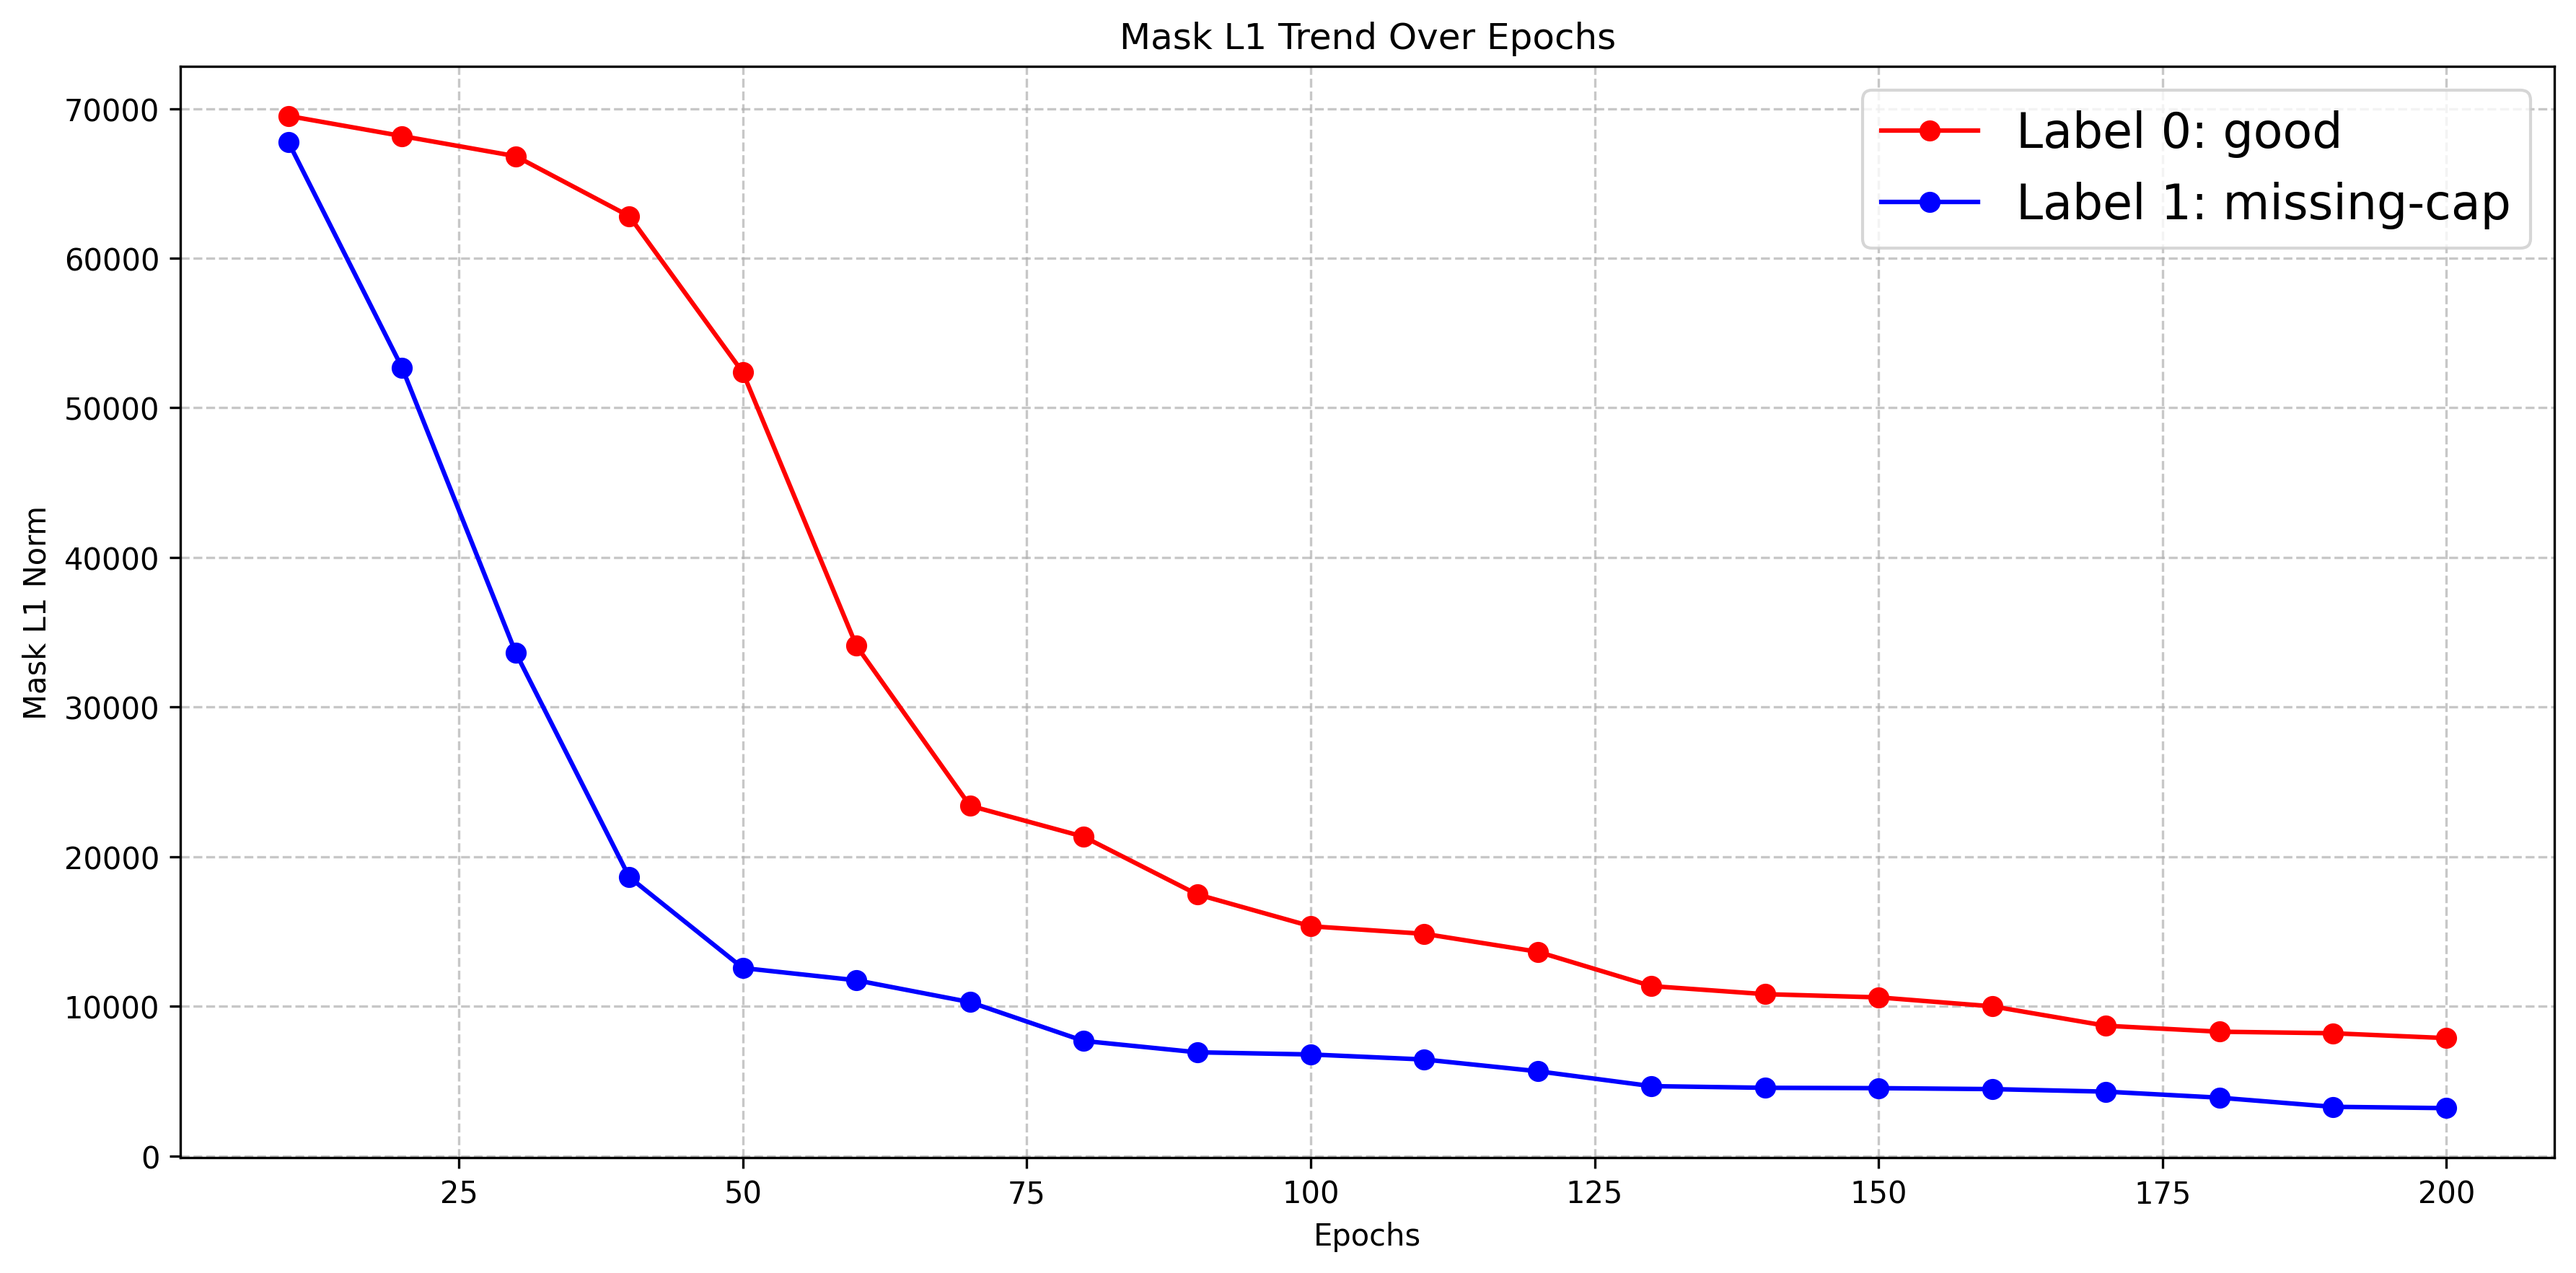
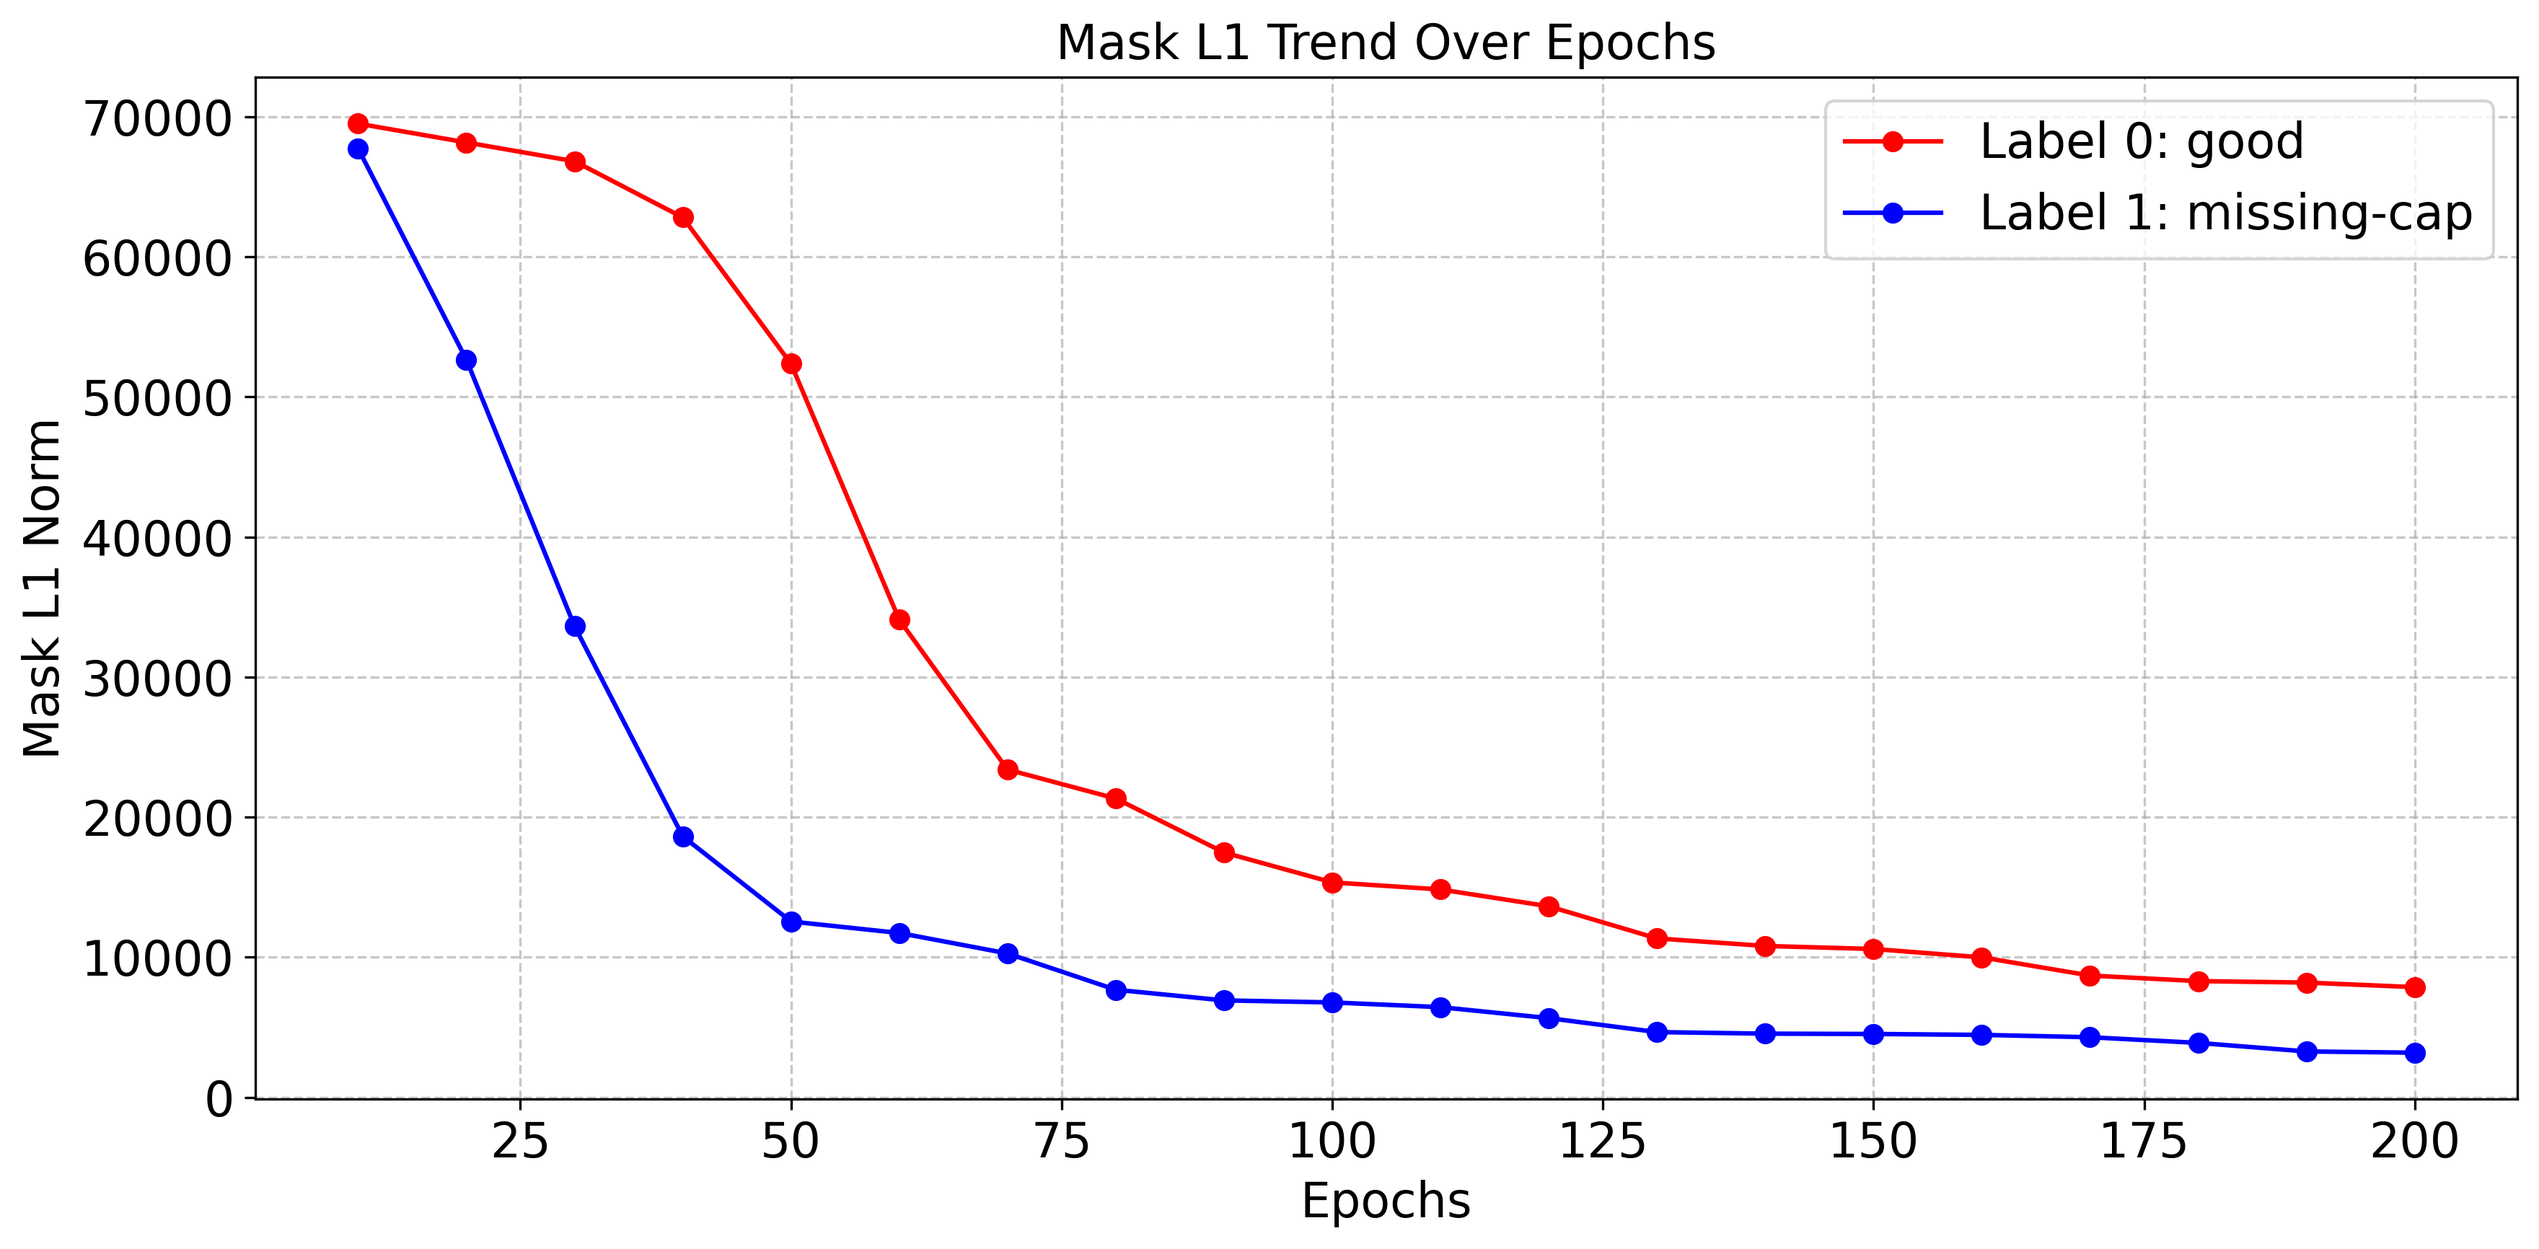
新增绘图脚本以可视化通信开销，更新多个图像文件以反映最新结果

diff --git a/Effcientnet/rev_eng_plots.py b/Effcientnet/rev_eng_plots.py
@@ -1,0 +1,150 @@
+import os
+import torch
+import torch.nn as nn
+from torch.utils.data import DataLoader
+from torchvision import datasets, transforms
+from torchvision.models import efficientnet_v2_s
+import matplotlib.pyplot as plt
+
+# 统一字体大小常量
+FONT_SIZE = 18
+# plt.rcParams.update({
+#     'font.size': FONT_SIZE,
+#     'axes.titlesize': FONT_SIZE,
+#     'axes.labelsize': FONT_SIZE,
+#     'xtick.labelsize': FONT_SIZE,
+#     'ytick.labelsize': FONT_SIZE,
+#     'legend.fontsize': FONT_SIZE,
+#     'figure.titlesize': FONT_SIZE,
+# })
+
+def load_data(data_dir: str, batch_size: int = 16) -> tuple[datasets.ImageFolder, DataLoader]:
+    transform = transforms.Compose([
+        transforms.Resize(256),
+        transforms.CenterCrop(224),
+        transforms.ToTensor(),
+        transforms.Normalize(mean=[0.485, 0.456, 0.406], std=[0.229, 0.224, 0.225]),
+    ])
+    dataset = datasets.ImageFolder(os.path.join(data_dir, 'val'), transform)
+    loader = DataLoader(dataset, batch_size=batch_size, shuffle=False, num_workers=4)
+    return dataset, loader
+
+
+def load_model(weights_path: str, num_classes: int, device: torch.device) -> torch.nn.Module:
+    model = efficientnet_v2_s(weights=None)
+    model.classifier = nn.Sequential(
+        nn.Dropout(p=0.2, inplace=True),
+        nn.Linear(in_features=1280, out_features=num_classes),
+    )
+    state = torch.load(weights_path, map_location=device)
+    model.load_state_dict(state)
+    model.to(device)
+    model.eval()
+    return model
+
+
+@torch.no_grad()
+def visualize_and_save(mask: torch.Tensor, delta: torch.Tensor, label: int,
+                       model: torch.nn.Module, clean_loader: DataLoader,
+                       class_names: list[str], results_dir: str, device: torch.device) -> None:
+    mean = torch.tensor([0.485, 0.456, 0.406]).view(3, 1, 1)
+    std = torch.tensor([0.229, 0.224, 0.225]).view(3, 1, 1)
+
+    # 反归一化触发器
+    trig = (delta * std + mean).clamp(0, 1)
+    rec = (mask * delta * std + mean).clamp(0, 1)
+
+    # 选取一个非目标类别样本
+    example_images = None
+    for imgs, labels in clean_loader:
+        non_target_indices = (labels != label).nonzero(as_tuple=True)[0]
+        if len(non_target_indices) > 0:
+            idx = non_target_indices[0]
+            example_images = imgs[idx:idx + 1].to(device)
+            break
+    if example_images is None:
+        print(f"[warn] 未在验证集中找到非目标标签 {label} 的样本，跳过 trigger_analysis 绘制。")
+        return
+
+    clean_img = example_images[0].cpu()
+    clean_img_viz = (clean_img * std + mean).clamp(0, 1).permute(1, 2, 0).numpy()
+
+    triggered_img = (1 - mask.to(device)) * example_images[0] + mask.to(device) * delta.to(device)
+    triggered_img_viz = (triggered_img.cpu() * std + mean).clamp(0, 1).permute(1, 2, 0).numpy()
+
+    clean_pred = model(example_images).argmax(1).item()
+    triggered_pred = model(triggered_img.unsqueeze(0)).argmax(1).item()
+
+    fig, axes = plt.subplots(1, 4, figsize=(16, 4))
+
+    mask_mean = mask.mean(dim=0)
+    im0 = axes[0].imshow(mask_mean, cmap='hot')
+    axes[0].set_title(f'Mask (L1={mask.sum().item():.1f})', fontsize=FONT_SIZE)
+    cbar = fig.colorbar(im0, ax=axes[0])
+    cbar.ax.tick_params(labelsize=FONT_SIZE)
+
+    axes[1].imshow(trig.permute(1, 2, 0))
+    axes[1].set_title('Trigger (Delta)', fontsize=FONT_SIZE)
+
+    axes[2].imshow(rec.permute(1, 2, 0))
+    axes[2].set_title('Reconstructed Trigger', fontsize=FONT_SIZE)
+
+    axes[3].imshow(triggered_img_viz)
+    axes[3].set_title(f'Example with Trigger\nPredicted: {class_names[triggered_pred]}', fontsize=FONT_SIZE)
+
+    for ax in axes:
+        ax.axis('off')
+
+    plt.tight_layout()
+    os.makedirs(results_dir, exist_ok=True)
+    out_path = os.path.join(results_dir, f'trigger_analysis_label{label}.png')
+    plt.savefig(out_path, dpi=300, bbox_inches='tight')
+    plt.close()
+    print(f"[ok] 保存 {out_path}")
+
+
+def load_mask_delta(mask_path: str, delta_path: str) -> tuple[torch.Tensor, torch.Tensor]:
+    mask = torch.load(mask_path, map_location='cpu')
+    delta = torch.load(delta_path, map_location='cpu')
+    # 确保是形状 (3, 224, 224)
+    if mask.ndim == 4:
+        mask = mask.squeeze(0)
+    if delta.ndim == 4:
+        delta = delta.squeeze(0)
+    return mask.cpu(), delta.cpu()
+
+
+def main():
+    # 沿用原脚本的固定配置（不使用命令行参数）
+    data_dir = "data/defect_supervised/glass-insulator"
+    num_classes = 2
+    batch_size = 16
+    weights_path = "Effcientnet/glass_insulator_efficientnetv2_backdoored.pth"
+    results_dir = "results"
+
+    device = torch.device('cuda' if torch.cuda.is_available() else 'cpu')
+    print(f"Using device: {device}")
+
+    # 数据与类别
+    dataset, loader = load_data(data_dir, batch_size=batch_size)
+    class_names = dataset.classes
+
+    # 模型
+    model = load_model(weights_path, num_classes=num_classes, device=device)
+
+    # 绘制指定标签的两类图
+    for label in range(num_classes):
+        mask_path = os.path.join(results_dir, f'mask_label{label}.pth')
+        delta_path = os.path.join(results_dir, f'delta_label{label}.pth')
+        if not (os.path.exists(mask_path) and os.path.exists(delta_path)):
+            print(f"[warn] 缺少 {mask_path} 或 {delta_path}，跳过 label {label}。")
+            continue
+
+        mask, delta = load_mask_delta(mask_path, delta_path)
+
+        # 仅绘制 trigger_analysis 图（沿用 visualize_and_save 逻辑）
+        visualize_and_save(mask, delta, label, model, loader, class_names, results_dir, device)
+
+
+if __name__ == '__main__':
+    main()

diff --git a/Effcientnet/plot_draw_blended.py b/Effcientnet/plot_draw_blended.py
@@ -8,7 +8,7 @@ from PIL import Image
 
 # ========== 配置区域 ==========
 KEY_PATTERN_PATH = '/home/lzy/IOE_exp/NeuralCleanse/Effcientnet/pics/file.jpg'
-BLEND_ALPHA = 0.1  # 混合比例，推荐值: 0.05-0.2，值越小越隐蔽
+BLEND_ALPHA = 0.2  # 混合比例，推荐值: 0.05-0.2，值越小越隐蔽
 # ==============================
 
 data_dir = "data/defect_supervised/glass-insulator"
@@ -114,7 +114,7 @@ def plot_trigger_comparison():
     # 1. Clean Sample
     clean_img = denormalize_tensor(clean_sample.clone())
     axes[0].imshow(clean_img)
-    axes[0].set_title('Clean Sample', fontsize=56)
+    axes[0].set_title('Clean Sample', fontsize=28)
     axes[0].axis('off')
     
     # 2. Blended Injection Trigger
@@ -138,13 +138,13 @@ def plot_trigger_comparison():
         # 显示
         blended_img_np = np.array(blended_img_pil) / 255.0
         axes[1].imshow(blended_img_np)
-        axes[1].set_title(f'Blended Injection (α={BLEND_ALPHA})', fontsize=56)
+        axes[1].set_title(f'Blended Injection (α={BLEND_ALPHA})', fontsize=28)
         
     except Exception as e:
         print(f"Error in Blended Injection: {e}")
         axes[1].text(0.5, 0.5, f'Blended Injection\n(Error: {str(e)})', 
                     ha='center', va='center', transform=axes[1].transAxes, fontsize=12)
-        axes[1].set_title('Blended Injection', fontsize=56)
+        axes[1].set_title('Blended Injection', fontsize=28)
     
     axes[1].axis('off')
     
@@ -158,15 +158,16 @@ def plot_trigger_comparison():
         original_img_np = np.array(original_trigger_pil) / 255.0
         
         axes[2].imshow(original_img_np)
-        axes[2].set_title('Original Trigger (White Square)', fontsize=56)
+        axes[2].set_title('Original Trigger (White Square)', fontsize=28)
     except Exception as e:
         axes[2].text(0.5, 0.5, 'Original Trigger\n(Error)', 
                     ha='center', va='center', transform=axes[2].transAxes, fontsize=12)
-        axes[2].set_title('Original Trigger', fontsize=56)
+        axes[2].set_title('Original Trigger', fontsize=28)
     
     axes[2].axis('off')
     
-    plt.tight_layout()
+    # 增大子图之间的间距（默认 w_pad/h_pad≈0.5，pad≈1.08，这里放大约4倍）
+    plt.tight_layout(pad=4.32, w_pad=2.0, h_pad=2.0)
     
     # 确保results目录存在
     os.makedirs('results', exist_ok=True)
@@ -218,7 +219,7 @@ def plot_multiple_trigger_comparison(num_samples=3):
         clean_img = denormalize_tensor(clean_sample.clone())
         axes[i, 0].imshow(clean_img)
         if i == 0:
-            axes[i, 0].set_title('Clean Sample', fontsize=56)
+            axes[i, 0].set_title('Clean Sample', fontsize=28)
         axes[i, 0].axis('off')
         
         # Blended Injection trigger
@@ -238,7 +239,7 @@ def plot_multiple_trigger_comparison(num_samples=3):
                            transform=axes[i, 1].transAxes)
         
         if i == 0:
-            axes[i, 1].set_title(f'Blended Injection (α={BLEND_ALPHA})', fontsize=56)
+            axes[i, 1].set_title(f'Blended Injection (α={BLEND_ALPHA})', fontsize=28)
         axes[i, 1].axis('off')
         
         # Original trigger (白色矩形)
@@ -248,10 +249,11 @@ def plot_multiple_trigger_comparison(num_samples=3):
         axes[i, 2].imshow(original_img_np)
         
         if i == 0:
-            axes[i, 2].set_title('Original Trigger', fontsize=56)
+            axes[i, 2].set_title('Original Trigger', fontsize=28)
         axes[i, 2].axis('off')
     
-    plt.tight_layout()
+    # 增大子图之间的间距（默认 w_pad/h_pad≈0.5，pad≈1.08，这里放大约4倍）
+    plt.tight_layout(w_pad=4.0, h_pad=4.0)
     os.makedirs('results', exist_ok=True)
     plt.savefig('results/multiple_trigger_comparison_blend.png', dpi=300, bbox_inches='tight')
     plt.close()
@@ -259,5 +261,5 @@ def plot_multiple_trigger_comparison(num_samples=3):
 
 # 调用函数
 if __name__ == "__main__":
-    plot_trigger_comparison()
+    # plot_trigger_comparison()
     plot_multiple_trigger_comparison(num_samples=4)

diff --git a/Effcientnet/plot_comm_log.py b/Effcientnet/plot_comm_log.py
@@ -1,0 +1,48 @@
+import matplotlib.pyplot as plt
+import numpy as np
+
+# === 字体大小设置 ==========================================================
+FONT_SIZE = 18
+
+# === 数据（MiB）==============================================================
+models   = ['EffNetV2-S', 'EffNetV2-M', 'EffNetV2-L']
+methods  = ['Ours', 'BackdoorIndicator', 'CrowdGuard']
+overhead = np.array([
+    [3.38,   5.27,   5.27],    # ours
+    [81.86, 206.53, 452.10],   # BackdoorIndicator
+    [7.89,   7.89,   7.89]     # CrowdGuard
+])
+
+# === 画布参数 ===============================================================
+bar_w   = 0.25
+colors  = ['#1f77b4', '#ff7f0e', '#2ca02c']       # 蓝 / 橙 / 绿
+x_pos   = np.arange(len(models))                  # x 轴刻度位置
+
+fig, ax = plt.subplots(figsize=(10, 6))
+
+# === 绘制柱形（对数 y 轴）====================================================
+for i, m in enumerate(methods):
+    ax.bar(x_pos + (i - 1)*bar_w,
+           overhead[i],
+           width=bar_w,
+           label=m,
+           color=colors[i])
+
+# === 坐标轴 & 标注格式 =======================================================
+ax.set_yscale('log')                                   # 关键：log 轴
+ax.set_ylabel('Communication per Round (MiB)', fontsize=FONT_SIZE)
+ax.set_title('Per-round Communication Overhead (log$_{10}$ scale)', fontsize=FONT_SIZE, pad=12)
+
+# 统一刻度字体大小
+ax.set_xticks(x_pos)
+ax.set_xticklabels(models)
+ax.tick_params(axis='both', which='both', labelsize=FONT_SIZE)
+
+legend = ax.legend(fontsize=FONT_SIZE, frameon=True, loc='upper left')
+
+ax.grid(True, axis='y', linestyle='--', linewidth=0.6, alpha=0.7)
+
+# 适当增加下边距防止刻度被截
+plt.tight_layout()
+plt.savefig('results/communication_overhead_logscale_cmfl.png', dpi=300)
+plt.show()

diff --git a/Effcientnet/plot_draw.py b/Effcientnet/plot_draw.py
@@ -3,6 +3,13 @@ import os
 import torch
 from torch.utils.data import DataLoader
 from torchvision import datasets, transforms
+ 
+# 统一字体大小常量（修改此值即可全局生效）
+FONT_SIZE = 16
+
+# 全局应用字体大小
+plt.rcParams["font.size"] = FONT_SIZE
+
 
 data_dir = "data/defect_supervised/glass-insulator"
 transform = transforms.Compose([
@@ -41,11 +48,13 @@ for epoch in epochs:
 plt.figure(figsize=(12, 6))
 plt.plot(epochs, l1_norms_label0, 'r-o', label=f'Label 0: {class_names[0]}')
 plt.plot(epochs, l1_norms_label1, 'b-o', label=f'Label 1: {class_names[1]}')
-plt.xlabel('Epochs')
-plt.ylabel('Mask L1 Norm')
-plt.title('Mask L1 Trend Over Epochs')
+plt.xlabel('Epochs', fontsize=FONT_SIZE)
+plt.ylabel('Mask L1 Norm', fontsize=FONT_SIZE)
+plt.title('Mask L1 Trend Over Epochs', fontsize=FONT_SIZE)
 plt.grid(True, linestyle='--', alpha=0.7)
-plt.legend()
+plt.xticks(fontsize=FONT_SIZE)
+plt.yticks(fontsize=FONT_SIZE)
+plt.legend(fontsize=FONT_SIZE)
 plt.tight_layout()
 
 # 保存L1范数趋势图
